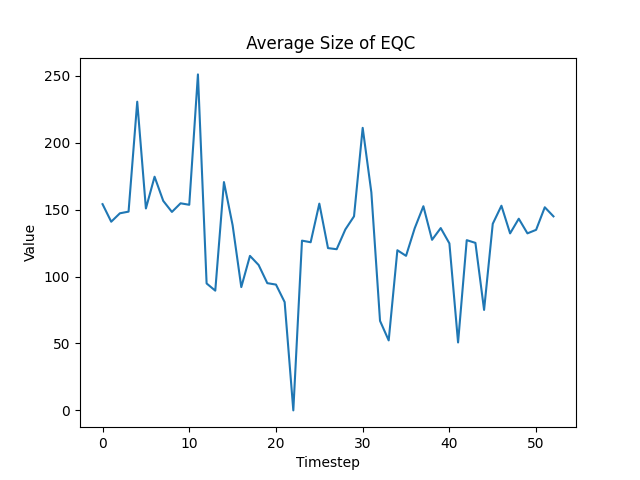
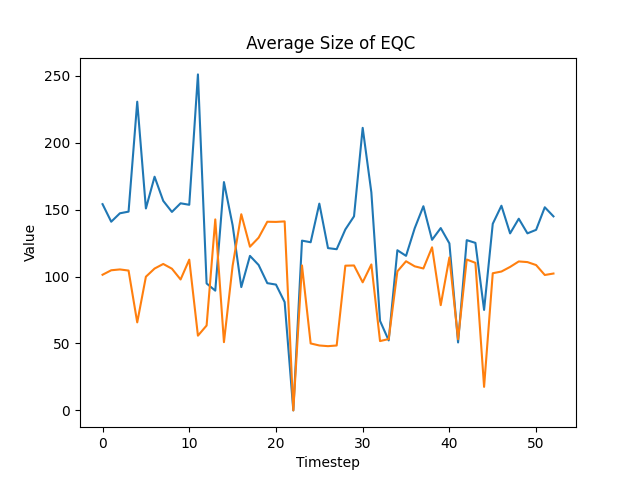
Added overall Results

diff --git a/DataVisualization/main.py b/DataVisualization/main.py
@@ -4,11 +4,6 @@ import matplotlib.pyplot as plt
 import numpy as np 
 import pandas
 
-year = "2014"
-shortModel = "AC"
-
[2 lines of base64/hex data omitted]
 
 
 
@@ -21,6 +16,7 @@ def visualize(dataframe : pandas.DataFrame, skipSecond: bool):
 
     xval = [i for i in range(rows)]
 
+
     for metric in range(columns):
         if(metric == 0):
             continue
@@ -30,7 +26,7 @@ def visualize(dataframe : pandas.DataFrame, skipSecond: bool):
 
 
         values = results[:, metric]
-
+        
 
         plt.plot(xval, values)
         plt.title(header[metric])
@@ -48,8 +44,54 @@ def visualize(dataframe : pandas.DataFrame, skipSecond: bool):
 
         plt.xlabel('Timestep')
         plt.ylabel('Value')
[2 lines of base64/hex data omitted]
         plt.show()
+    return results
 
-visualize(unaryDF, False)
-visualize(binaryDF, True)
+unaryResults : np.ndarray = np.array([[]])
+unaryResults.shape=(0, 6)
+binaryResults : np.ndarray = np.array([[]])
+binaryResults.shape=(0, 6)
+
+shortModel = "SchemEx"
+first : int = 2013
+last : int= 2014
+for year in range(first, last +1):
[1 lines of base64/hex data omitted]
+    unaryResults = np.concatenate((unaryResults, visualize(unaryDF, False)), 0)
[1 lines of base64/hex data omitted]
+    binaryResults = np.concatenate((binaryResults, visualize(binaryDF, True)), 0)
+
+
+       
+xval = [i for i in range(unaryResults.shape[0])]
+unaryHeader = list(unaryDF.columns)
+
+for metric in range(6):
+    if(metric == 0): 
+        continue
+    unaryVals = unaryResults[:, metric]
+    plt.plot(xval, unaryVals)
+    plt.title(unaryHeader[metric])
+    plt.xlabel('Timestep')
+    plt.ylabel('Value')
[1 lines of base64/hex data omitted]
+    plt.show()
+
+
+
+xval = [i for i in range(binaryResults.shape[0])]
+binaryHeader = list(binaryDF.columns)
+
+for metric in range(6):
+    if(metric == 0 or metric == 1): 
+        continue
+    binaryVals = binaryResults[:, metric]
+    plt.plot(xval, binaryVals)
+    plt.title(binaryHeader[metric])
+    plt.xlabel('Timestep')
+    plt.ylabel('Value')
+    print(binaryHeader[metric])
[1 lines of base64/hex data omitted]
+    plt.show()
+
